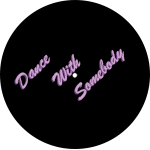
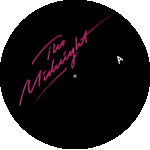
Added Spotify embed and added pizza zone link

diff --git a/src/components/Links/index.js b/src/components/Links/index.js
@@ -26,6 +26,12 @@ const linksConfig = {
     widthRatio: 0.14,
     heightRatio: 0.15,
   },
+  poster: {
+    topXRatio: 0.37,
+    topYRatio: 0.05,
+    widthRatio: 0.16,
+    heightRatio: 0.35,
+  },
 };
 
 const InteractiveLink = styled.a`
@@ -39,7 +45,7 @@ const InteractiveLink = styled.a`
 `;
 
 export const Links = ({ area, width }) => {
-  const { tux, sash, headphones, sleeve } = linksConfig;
+  const { tux, sash, headphones, sleeve, poster } = linksConfig;
   return (
     <Fragment>
       {area === 3 && (
@@ -69,7 +75,7 @@ export const Links = ({ area, width }) => {
 
       {area === 2 && (
         <InteractiveLink
-          href="https://merch.ambientinks.com/collections/themidnight/"
+          href="https://themidnight.bandcamp.com/"
           target="_blank"
           rel="noopener noreferrer"
           top={headphones.topYRatio * width}
@@ -87,6 +93,17 @@ export const Links = ({ area, width }) => {
           left={sleeve.topXRatio * width}
           cssWidth={width * sleeve.widthRatio}
           cssHeight={width * sleeve.heightRatio * 0.5625}
+        />
+      )}
+      {area === 2 && (
+        <InteractiveLink
+          href="https://www.youtube.com/watch?v=ZNAqwJ7pXmY"
+          target="_blank"
+          rel="noopener noreferrer"
+          top={poster.topYRatio * width}
+          left={poster.topXRatio * width}
+          cssWidth={width * poster.widthRatio}
+          cssHeight={width * poster.heightRatio * 0.5625}
         />
       )}
     </Fragment>

diff --git a/src/components/Record/index.js b/src/components/Record/index.js
@@ -3,13 +3,12 @@ import styled, { css } from "styled-components";
 import record from "../../images/record.png";
 import record2 from "../../images/record2.png";
 
-const lightColor = "#c88cc1";
-const darkColor = "#b474bd";
+const lightColor = "#191919";
+const darkColor = "black";
 
 const StyledWrapper = styled.div`
   position: absolute;
   top: 100px;
-  right: 150px;
 `;
 
 const recordStyles = css`
@@ -99,6 +98,14 @@ const StyledLink = styled.a`
   border-radius: 100%;
 `;
 
+const StyledIframe = styled.iframe`
+  position: absolute;
+  top: -100px;
+  left: 300px;
+  border-color: transparent; //none;
+  border-radius: 5px;
+`;
+
 export const Record = () => {
   const [isFlipped, setIsFlipped] = useState(false);
   const [isWaiting, setIsWaiting] = useState(false);
@@ -126,6 +133,14 @@ export const Record = () => {
           <StyledRecordBack isWaiting={isWaiting} onClick={handleClick} />
         </StyledFlipper>
       </StyledFlipContainer>
+      <StyledIframe
+        src="https://open.spotify.com/embed/playlist/7hSeJtbd3urlrbJDsO1BWA"
+        width="300"
+        height="380"
+        frameborder="0"
+        allowtransparency="true"
+        allow="encrypted-media"
+      ></StyledIframe>
     </StyledWrapper>
   );
 };

diff --git a/src/components/Pizza/index.js b/src/components/Pizza/index.js
@@ -2,6 +2,7 @@ import React, { useState, Fragment } from "react";
 import styled, { css } from "styled-components";
 import pizza from "../../images/pizza.png";
 import pizzaOpen from "../../images/pizza-open.png";
+import pizzaZone from "../../images/pizza-zone.png";
 
 const pizzaStyles = css`
   position: absolute;
@@ -40,6 +41,12 @@ const StyledLink = styled.a`
   }
 `;
 
+const StyledPizzaZoneImage = styled.img`
+  position: absolute;
+  left: -122px;
+  top: 74px;
+`;
+
 export const Pizza = () => {
   const [isOpen, setIsOpen] = useState(false);
 
@@ -53,10 +60,13 @@ export const Pizza = () => {
         <StyledPizzaOpen isOpen={isOpen} onClick={handleClick}>
           {" "}
           <StyledLink
-            href="https://merch.ambientinks.com/collections/themidnight/products/preorder-horror-show-skateboard-deck"
+            href="https://pizza-zone.net"
             target="_blank"
             rel="noopener noreferrer"
-          ></StyledLink>
+          >
+            {" "}
+            <StyledPizzaZoneImage src={pizzaZone} alt="Pizza Zone" />
+          </StyledLink>
         </StyledPizzaOpen>
       </Fragment>
 
